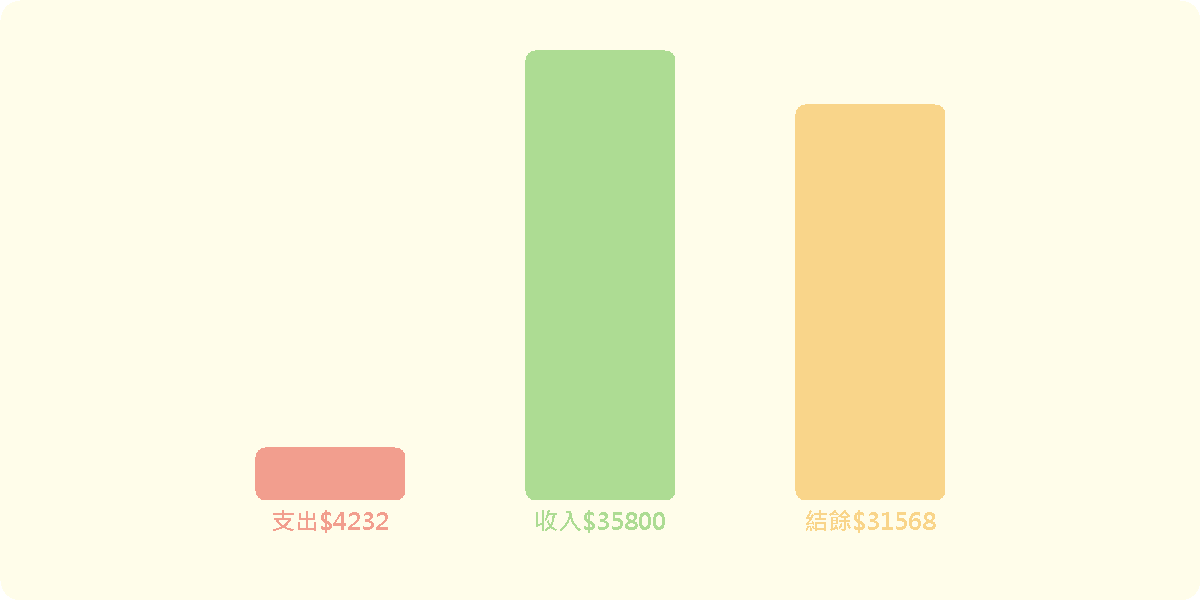
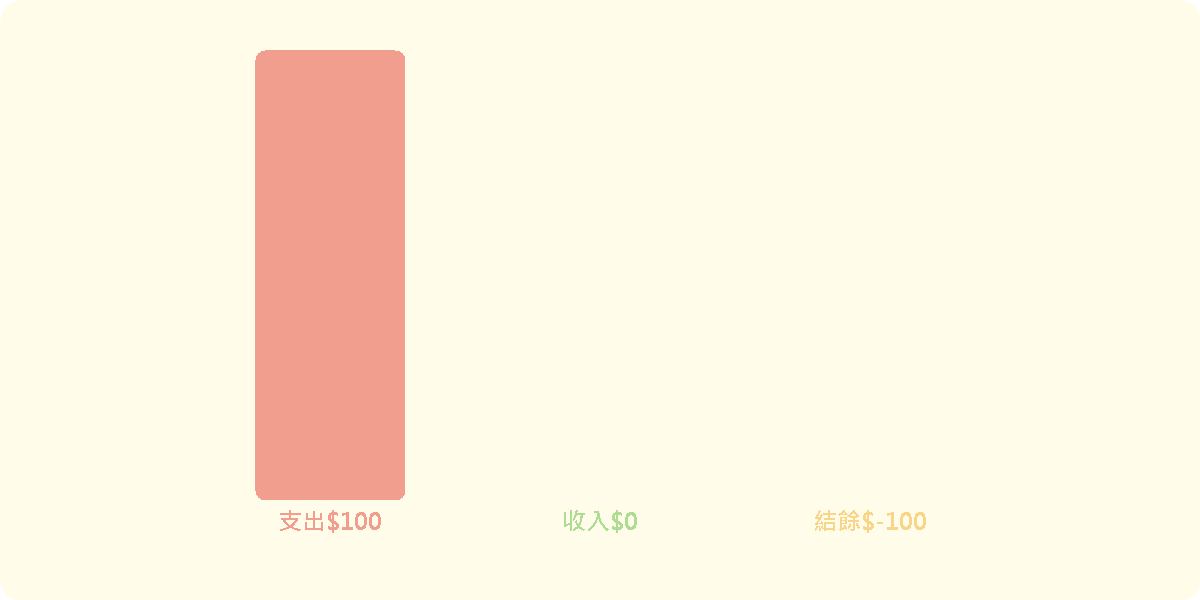
[fix] fix bug for timePeriod that month and yesterday error define

diff --git a/AccountBot/src/main/java/com/example/accountbot/service/Impl/TransactionServiceImpl.java b/AccountBot/src/main/java/com/example/accountbot/service/Impl/TransactionServiceImpl.java
@@ -72,7 +72,7 @@ public class TransactionServiceImpl implements TransactionService {
                     startDate = today.minusWeeks(1);
                     break;
                 case "month":
-                    startDate = today.minusMonths(1);
+                    startDate = today.withDayOfMonth(1);
                     break;
                 case "lastMonth":
                     startDate = today.minusMonths(1).withDayOfMonth(1);
@@ -146,8 +146,10 @@ public class TransactionServiceImpl implements TransactionService {
     public BalanceDto balance(String lineUserId) {
         ZoneId taipeiZone = ZoneId.of("Asia/Taipei");
         LocalDate today = LocalDate.now(taipeiZone); // 取得台灣時間的今天日期
-        LocalDate startDate = today.minusMonths(1);
+        LocalDate startDate = today.withDayOfMonth(1);
         LocalDate endDate = today; // 預設結束時間為今天
+
+        log.info("startDate : " + startDate);
 
         String startDateStr = dateToString(startDate);
         String endDateStr = dateToString(endDate);

diff --git a/AccountBot/src/main/java/com/example/accountbot/MessageHandler.java b/AccountBot/src/main/java/com/example/accountbot/MessageHandler.java
@@ -383,8 +383,10 @@ public class MessageHandler {
             else if (receivedText != null && receivedText.matches("^本月結餘.*")) {
 
                 BalanceDto balanceDto = transactionService.balance(userId);
-                int totalIncome = balanceDto.getTotalIncome();
-                int totalExpenses = balanceDto.getTotalExpenses();
+                log.info("balanceDto : " + balanceDto);
+
+                int totalIncome = balanceDto.getTotalIncome() != null ? balanceDto.getTotalIncome() : 0;
+                int totalExpenses = balanceDto.getTotalExpenses() != null ? balanceDto.getTotalExpenses() : 0;
                 int netBalance = totalIncome - totalExpenses;
 
                 String message = String.format(

diff --git a/AccountBot/src/main/java/com/example/accountbot/service/Impl/ChartGenerateServiceImpl.java b/AccountBot/src/main/java/com/example/accountbot/service/Impl/ChartGenerateServiceImpl.java
@@ -299,6 +299,7 @@ public class ChartGenerateServiceImpl implements ChartGenerateService {
         switch (time) {
             case "yesterday":
                 startDate = endDate.minusDays(1);
+                endDate = endDate.minusDays(1);
                 break;
             case "week":
                 // 當前週的禮拜一
